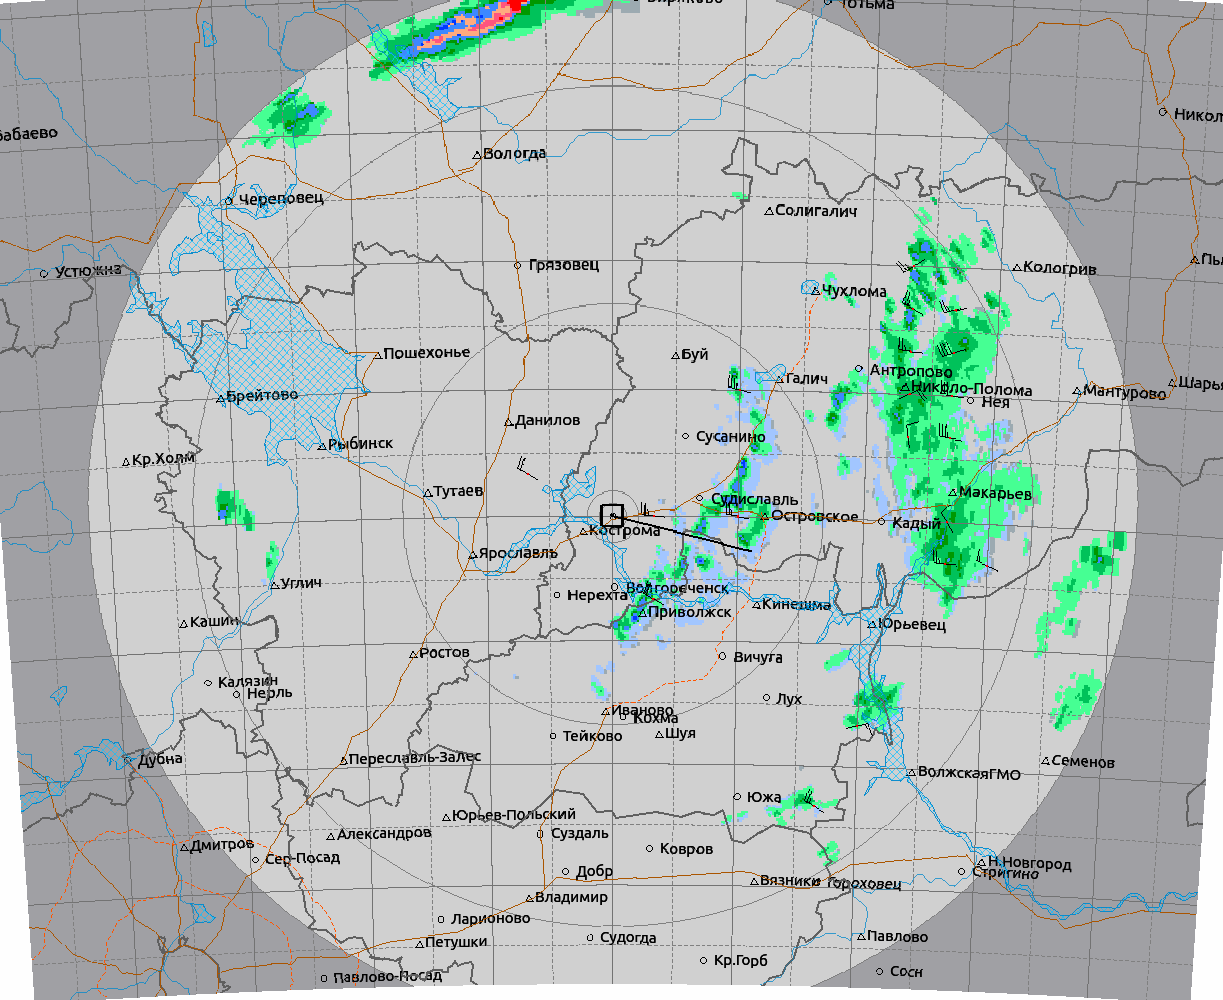
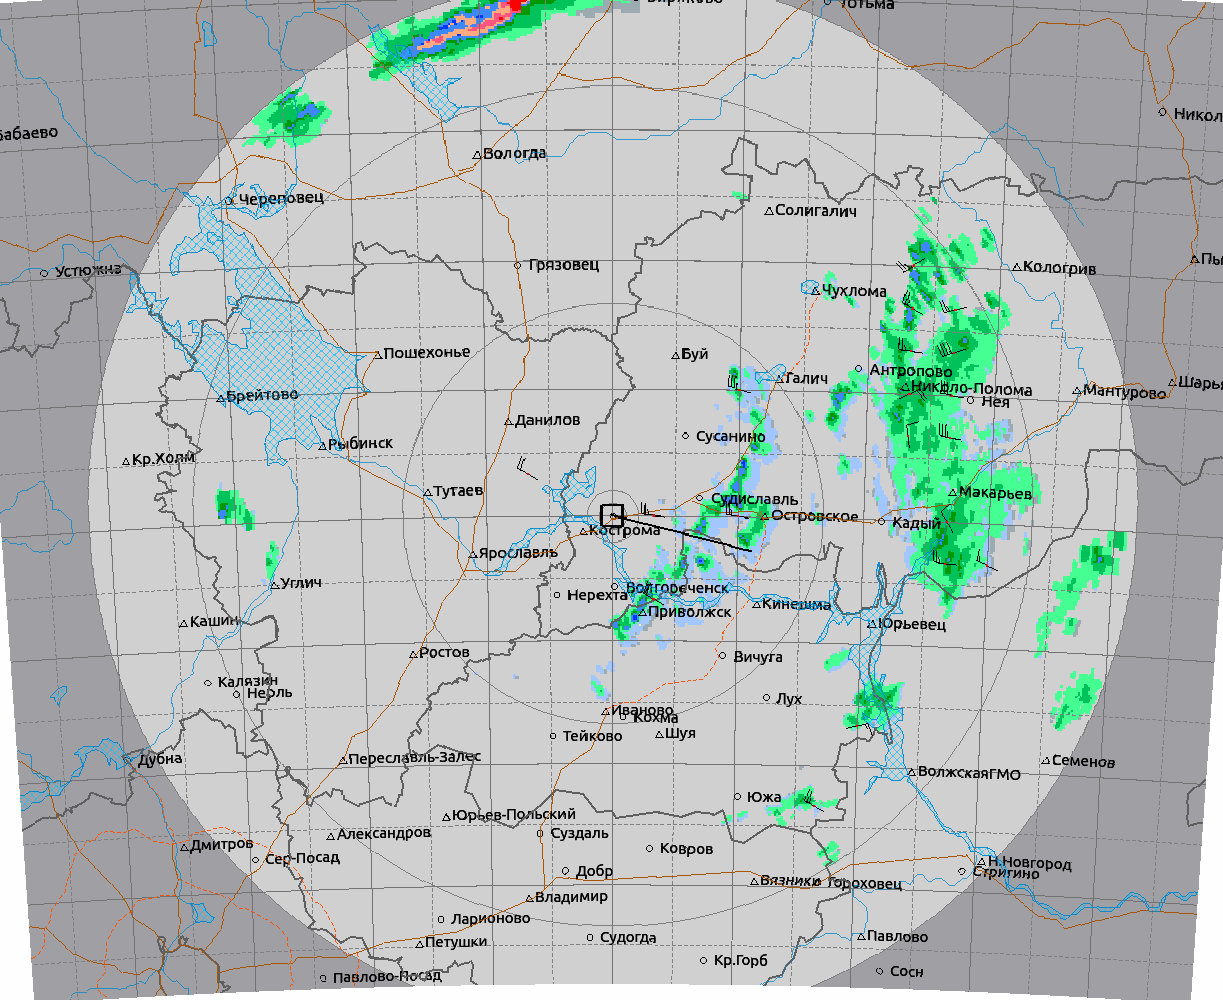
Well-aligned NN and Kostroma and adjusted scale

diff --git a/main.html b/main.html
@@ -20,8 +20,8 @@
 
         //var extent1 = ol.proj.transform([39.4, 54.1], 'EPSG:4326', 'EPSG:3857');
         //var extent2 = ol.proj.transform([40, 58.45], 'EPSG:4326', 'EPSG:3857');
-        var extent1 = [4358375.824120124, 7191222.148398699]
-        var extent2 = [5432925.910906049, 8068083.313301819]
+        var extent1 = [4364696.706983571, 7196099.93438077]
+        var extent2 = [5426605.028042602, 8062618.0504191]
         var extent = [extent1[0], extent1[1], extent2[0], extent2[1]];
         var imageLayerNN = new ol.layer.Image({
             source: new ol.source.ImageStatic({
@@ -44,8 +44,8 @@
          
         //var extent1 = ol.proj.transform([36.3, 55.7], 'EPSG:4326', 'EPSG:3857');
         //var extent2 = ol.proj.transform([40, 59.95], 'EPSG:4326', 'EPSG:3857');
-        var extent1 = [4007703.8756948328, 7489591.001278013]
-        var extent2 = [5117835.837274475, 8396684.99962239]
+        var extent1 = [4017502.552186516, 7492596.015724386]
+        var extent2 = [5114261.924068971, 8388732.016104072]
         var extent = [extent1[0], extent1[1], extent2[0], extent2[1]];
         var imageLayerK = new ol.layer.Image({
             source: new ol.source.ImageStatic({
@@ -83,7 +83,7 @@
         view: new ol.View({
           //center: ol.proj.transform([43+55/60, 56+18/60], 'EPSG:4326', 'EPSG:3857'),
           center: [4895650.867513087, 7617122.422797349],
-          zoom: 16
+          zoom: 8
         })
         });
     </script>

diff --git a/convert.py b/convert.py
@@ -3,18 +3,18 @@ import pyproj
 from PIL import Image
 from math import cos, pi
 
-#earthCenterDeg = (43.97838, 56.293779) #lat, lon
-#sourceName = 'UVKNizhny-crop.png'
-#targetName = 'UVKNizhny-merc.png'
-#sourceCenter = (588, 500) # x,y
+earthCenterDeg = (43.97838, 56.293779) #lat, lon
+sourceName = 'UVKNizhny-crop.png'
+targetName = 'UVKNizhny-merc.png'
+sourceCenter = (588, 500) # x,y
 
-earthCenterDeg = (40.988059, 57.819504) #lon, lat
-sourceName = 'UVKKostroma-crop.png'
-targetName = 'UVKKostroma-merc.png'
-sourceCenter = (583, 493) # x,y
+#earthCenterDeg = (41.016018, 57.809240) #lon, lat
+#sourceName = 'UVKKostroma-crop.png'
+#targetName = 'UVKKostroma-merc.png'
+#sourceCenter = (583, 493) # x,y
 
-sourcePixelPerRad = 12600
-sourcePixelPerDeg = 12600 / 180 * pi
+sourcePixelPerRad = 12750 # was 12600
+sourcePixelPerDeg = sourcePixelPerRad / 180 * pi
 targetHeight = 1000 #1500
 #-----------
 
